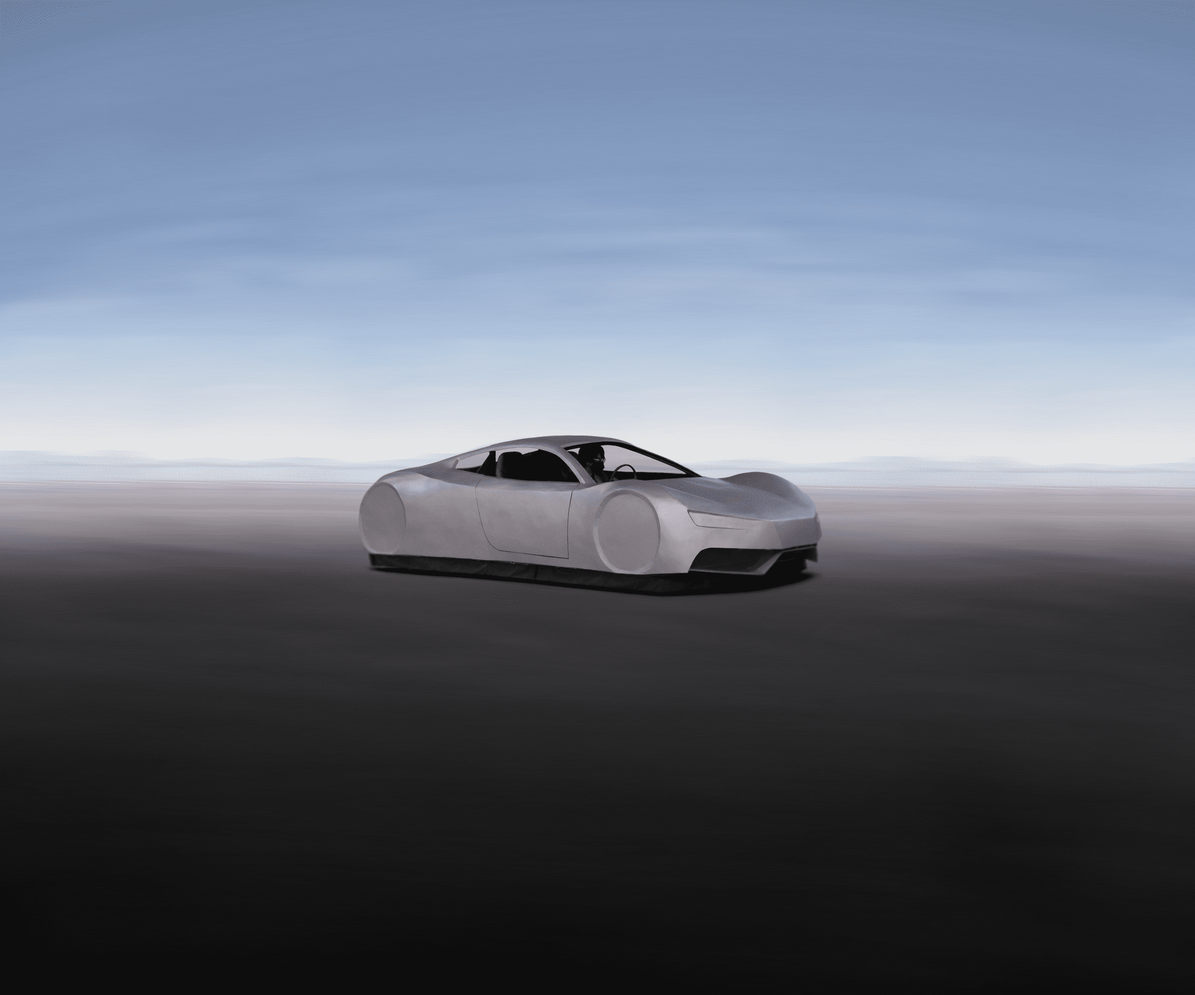
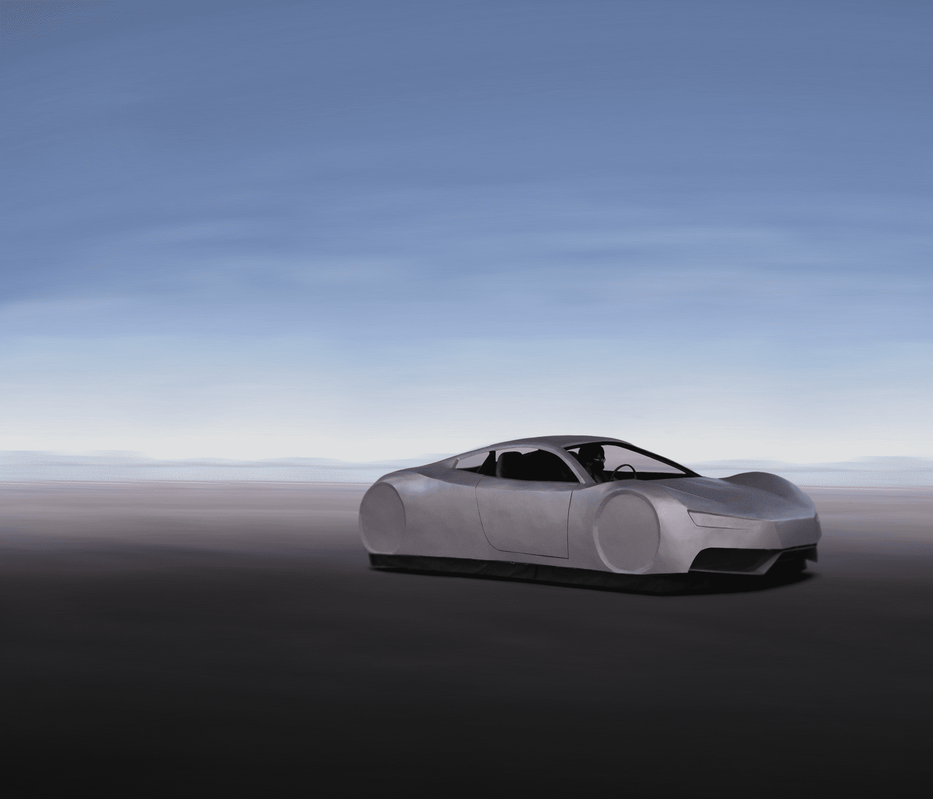
Updated MK1 images

diff --git a/mark-i.html b/mark-i.html
@@ -111,21 +111,20 @@
         <div class="header-description">
             <h2>ANSSATZ MARK 1</h2>
             <br></br>
-            <h1>El vehículo eléctrico mexicano.</h1>
-            <h1>Pronto en el mercado.</h1>
+            <h1>El primer EV deportivo mexicano.</h1>
         </div>
     </section>
 
 
     <section class="header-banner">
         <picture>
-            <source srcset="./images/marki600x1300.png"
+            <source srcset="./images/soumaya.jpeg"
                     media="(max-width: 767px)">
-            <source srcset="./images/marki600x1300.png"
+            <source srcset="./images/soumaya.jpeg"
                     media="(min-width: 768px) and (orientation:portrait)">
-            <source srcset="./images/marki2158x1798.png"
+            <source srcset="./images/soumaya.jpeg"
                     media="(min-width: 768px)">
-            <img src="./images/marki2158x1798.png" alt="Mark I" />
+            <img src="./images/soumaya.jpeg" alt="Mark I" />
         </picture>
         <div class="container">
           <header class="contact-header">
